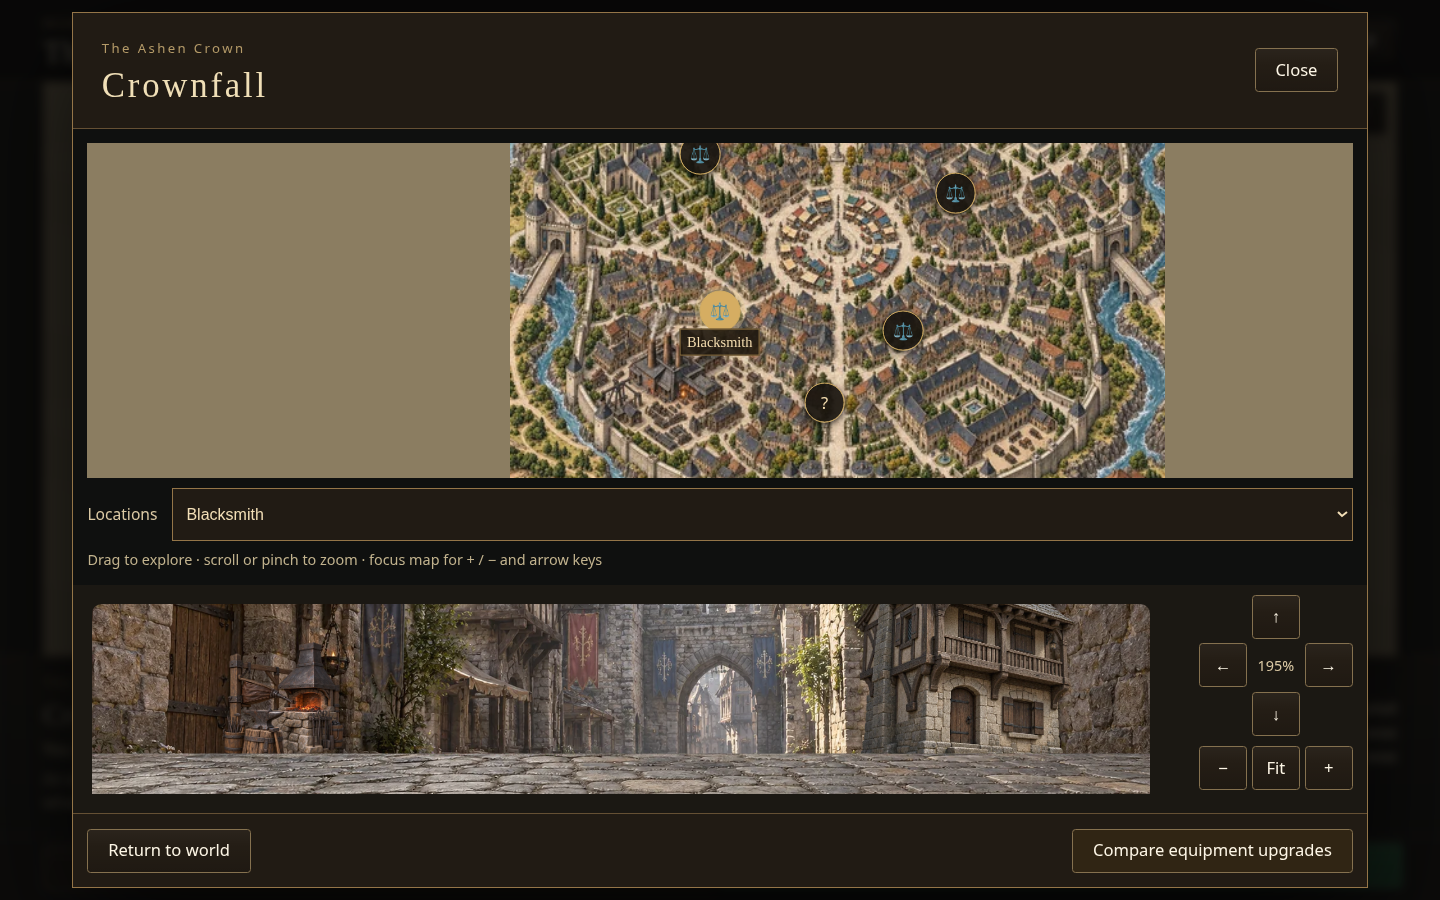
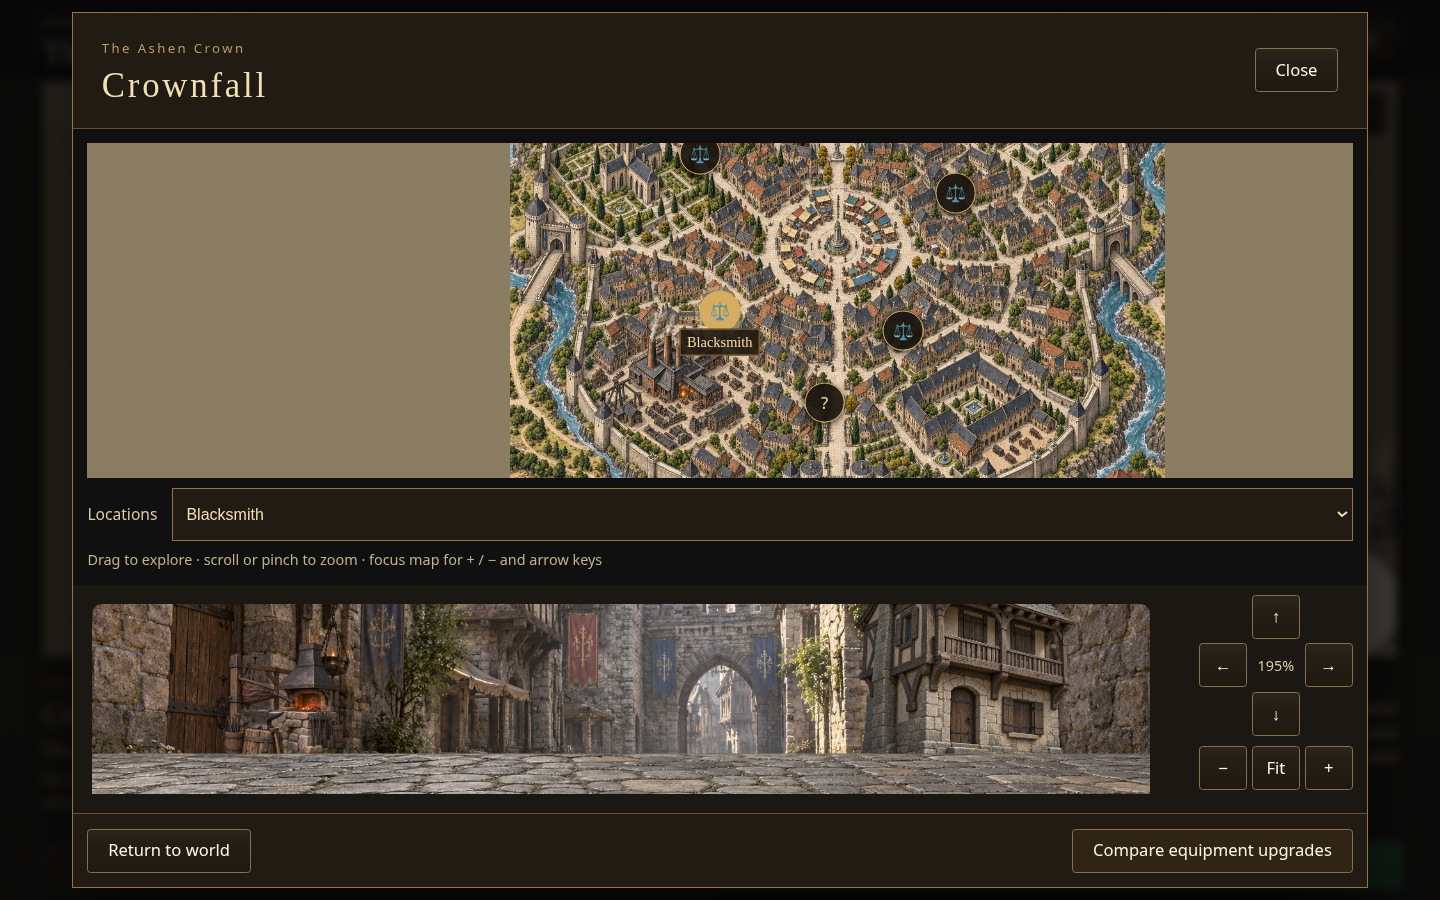
Record verified layered scenes on build 0.7.1.1600

Changed region(s): [[0.3438, 0.1556, 0.8125, 0.5289], [0.9375, 0.6533, 0.9688, 0.7156]]

diff --git a/docs/design/layered-environment-evidence/CAPTURE.md b/docs/design/layered-environment-evidence/CAPTURE.md
@@ -1,6 +1,6 @@
 # Layered environment captures
 
-Captured 2026-10-18 America/Anchorage from the built web edition after integrating current dev, art-source recovery and accessible map previews, build **0.7.1.1596**, source digest **84bbc9b033**. Source commit at capture: `61b211d0f432dc7f38b624e8848caad03ac2f7fe`. Exact artifact and screenshot hashes are in [capture.json](capture.json).
+Captured 2026-10-18 America/Anchorage from the built web edition after integrating current dev, art-source recovery and accessible map previews, build **0.7.1.1600**, source digest **4d9df2a632**. Source commit at capture: `d44aa97342ff6ed1cd8d89a7da278dbbe6391bb8`. Exact artifact and screenshot hashes are in [capture.json](capture.json).
 
 The captures show mobile 390×844, desktop 1440×900, wide 1920×900 and tablet 768×1024. `map-forge.png` and `map-archive.png` show actual Crownfall location inspection. The browser suite checks all layers load, effects do not take pointer input, reduced-motion stops particles, and inspecting locations does not travel. This run also includes dev's separate layered card-art runtime.
 
